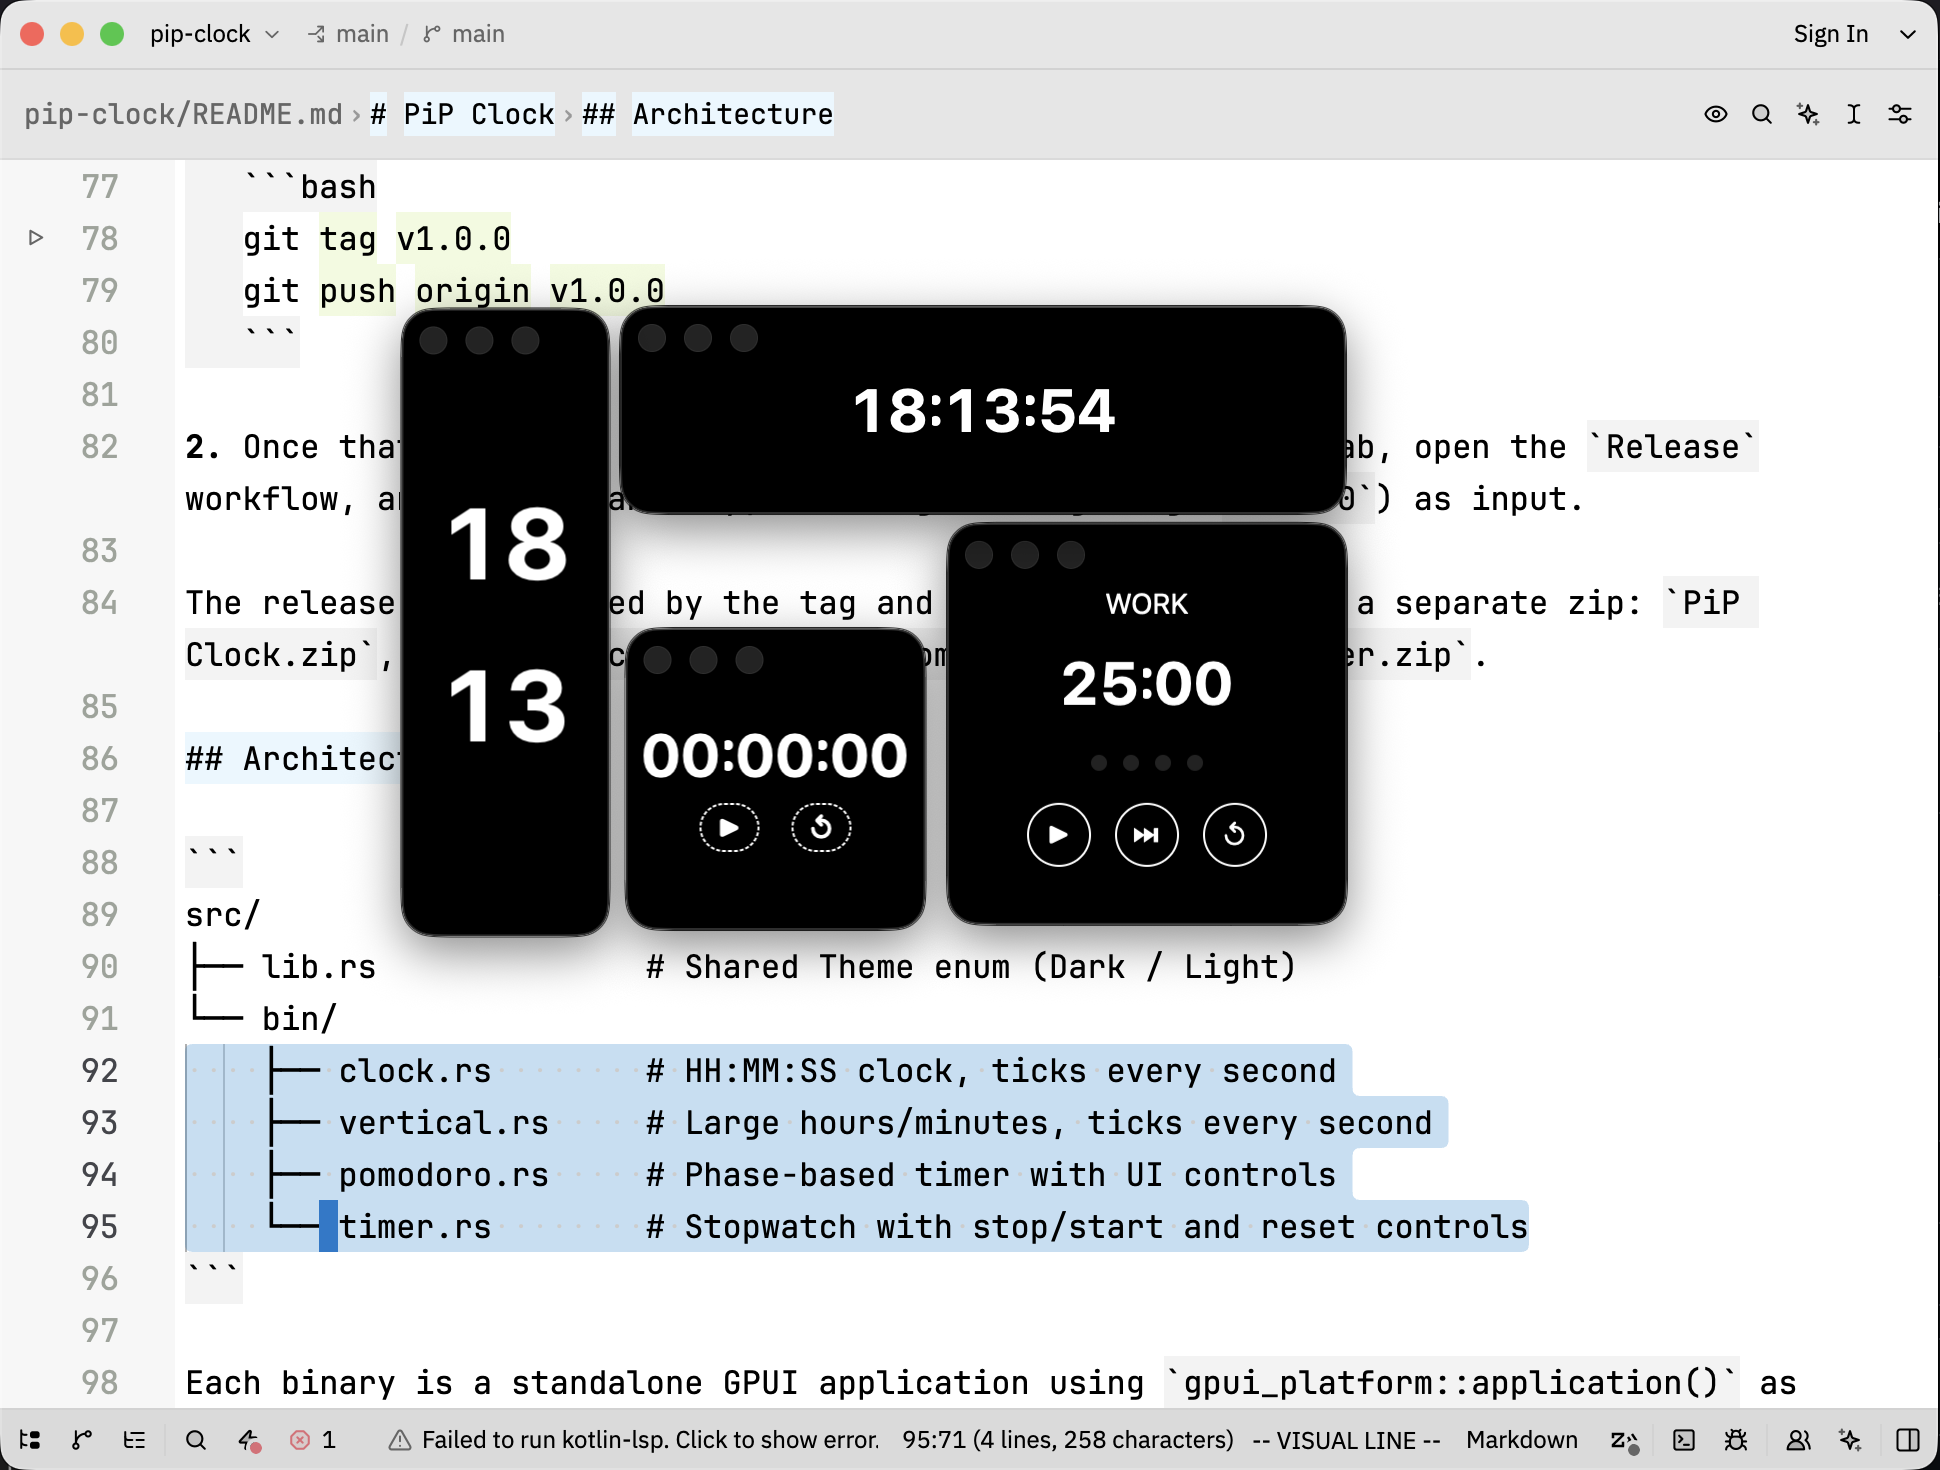
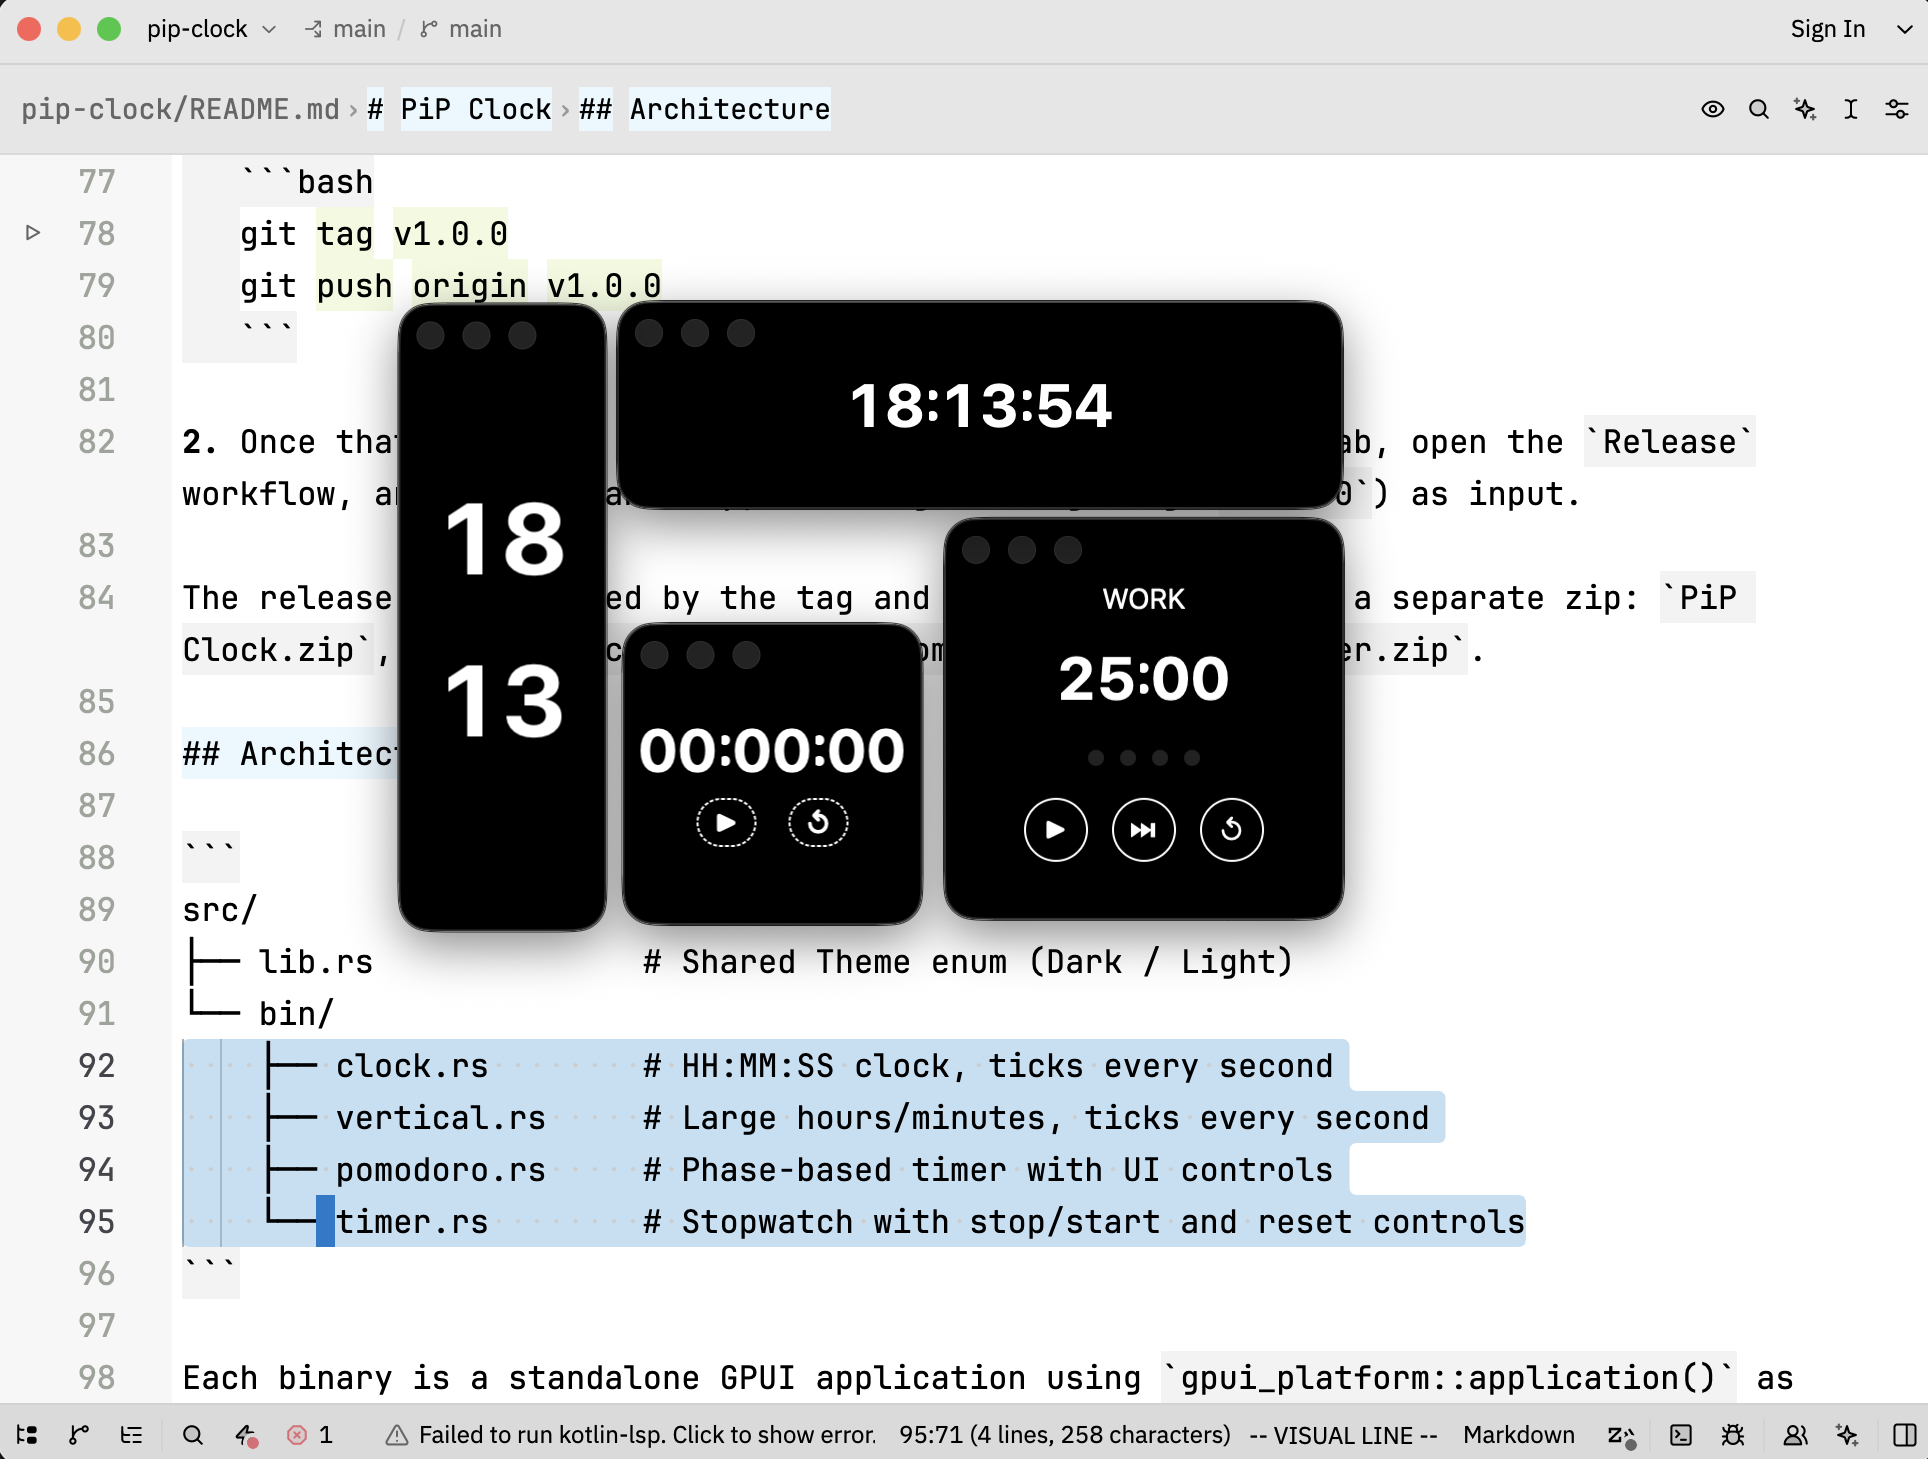
add screenshot preview

diff --git a/README.md b/README.md
@@ -8,10 +8,12 @@ Native macOS always-on-top widgets built with **GPUI** (Zed's GPU-accelerated UI
 |-----|--------|--------|-------------|
 | **PiP Clock** | `clock` | 300×300 | `HH:MM:SS` digital clock |
 | **PiP Vertical** | `vertical` | 300×300 | Hours over minutes in large type |
-| **PiP Pomodoro** | `pomodoro` | 300×300 | 25/5/15 min timer with session tracking |
-| **PiP Timer** | `timer` | 300×300 | Stopwatch with stop/start and reset controls |
+| **PiP Pomodoro** | `pomodoro` | 200×200 | 25/5/15 min timer with session tracking |
+| **PiP Timer** | `timer` | 150×150 | Stopwatch with stop/start and reset controls |
 
 All windows stay above everything (including full-screen apps) using `WindowKind::PopUp` and are draggable.
+
+![](./misc/preview.png)
 
 ## Building
 
